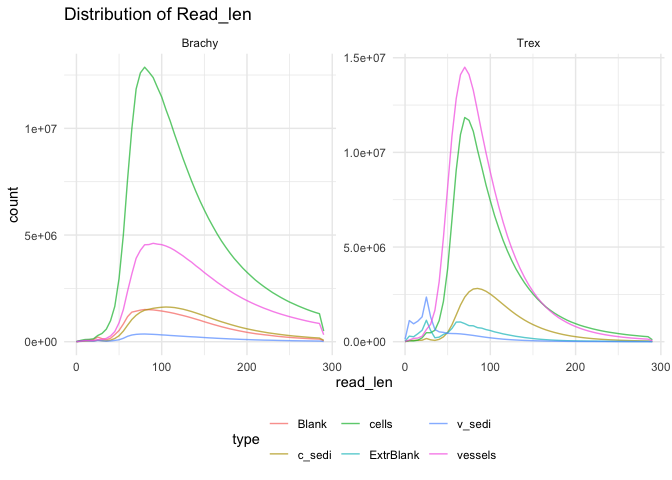
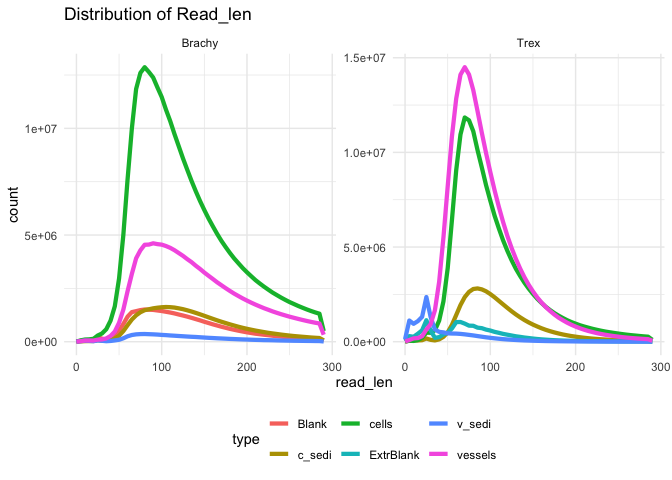
up

diff --git a/results/2025-09-12/README.md b/results/2025-09-12/README.md
@@ -1,3 +1,5 @@
-## Trimmed Lengths
+## Trimmed and Pair-Merged Read Lengths
+
+-   Reads were merged using LeeHom
 
 ![](README_files/figure-markdown_strict/setup-1.png)
